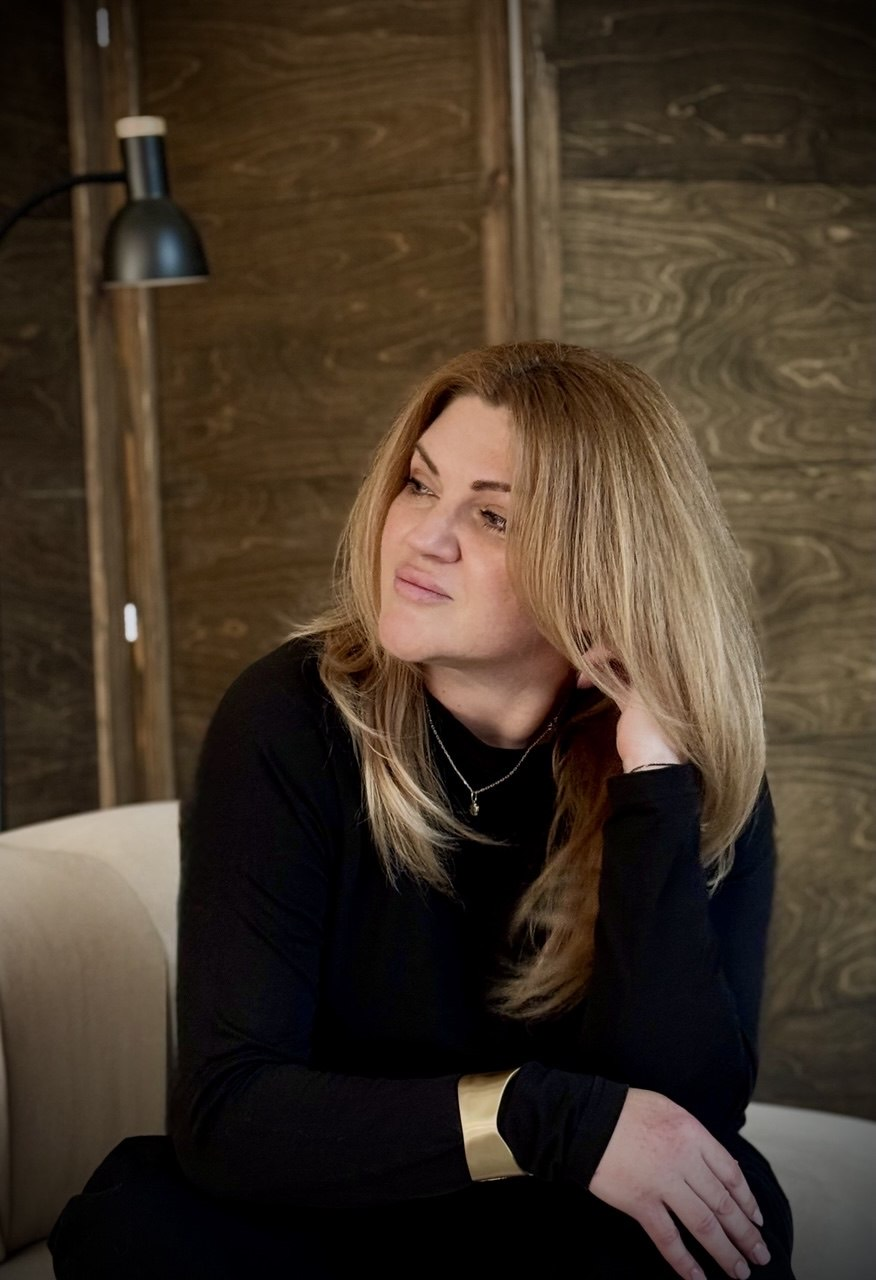
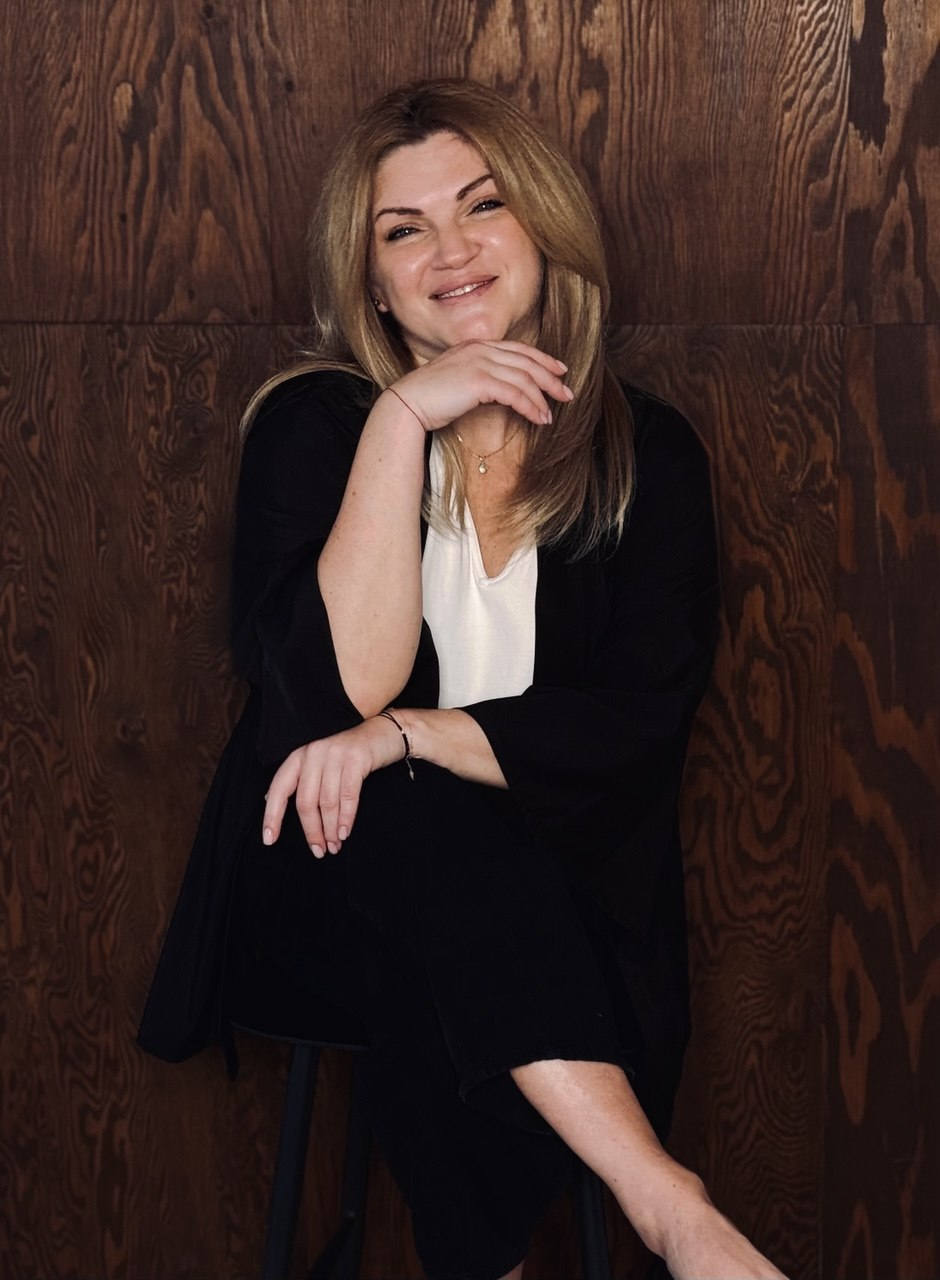
Refine desktop layout and scrolling

diff --git a/assets/site.js b/assets/site.js
@@ -63,32 +63,45 @@ const wideThreadLayout = window.matchMedia("(min-width: 64rem)");
 
 let activeSection = null;
 let pendingFrame = 0;
+let layoutPending = false;
 let threadLength = 0;
+let threadHeights = [];
+let sections = [];
+let pageHeight = 0;
+let lastDashOffset = "";
+const threadSampleSpacing = 24;
 
-function updateThreadProgress() {
+function updateThreadProgress(viewportTop, viewportHeight, atBottom) {
   if (!threadLength) return;
 
-  const viewportBottom = window.scrollY + window.innerHeight;
-  const atBottom = document.documentElement.scrollHeight - viewportBottom < 2;
   let drawn = threadLength;
 
   if (!motionPreference.matches && !atBottom) {
-    const readingPoint = window.scrollY + window.innerHeight * .76;
+    const readingPoint = viewportTop + viewportHeight * .76;
     let low = 0;
-    let high = threadLength;
-    // The thread descends continuously, so its visible tip can follow a height on screen.
-    for (let step = 0; step < 12; step += 1) {
-      const middle = (low + high) / 2;
-      if (threadLine.getPointAtLength(middle).y < readingPoint) {
+    let high = threadHeights.length - 1;
+    // Locate the tip using samples collected when the path was laid out.
+    while (high - low > 1) {
+      const middle = Math.floor((low + high) / 2);
+      if (threadHeights[middle] < readingPoint) {
         low = middle;
       } else {
         high = middle;
       }
     }
-    drawn = low;
+
+    const start = low * threadSampleSpacing;
+    const end = Math.min(high * threadSampleSpacing, threadLength);
+    const height = threadHeights[high] - threadHeights[low];
+    const fraction = Math.max(0, Math.min(1, (readingPoint - threadHeights[low]) / height));
+    drawn = start + fraction * (end - start);
   }
 
-  threadLine.setAttribute("stroke-dashoffset", (threadLength - drawn).toFixed(2));
+  const dashOffset = (threadLength - drawn).toFixed(2);
+  if (dashOffset !== lastDashOffset) {
+    threadLine.setAttribute("stroke-dashoffset", dashOffset);
+    lastDashOffset = dashOffset;
+  }
 }
 
 function setThreadInk(stops, startY, endY) {
@@ -122,14 +135,16 @@ function layoutThread() {
     lanes = [leftEdge + gap * .55, leftEdge + gap * .21];
   }
 
-  const sections = Array.from(paintedSections, section => {
+  pageHeight = document.documentElement.scrollHeight;
+  sections = Array.from(paintedSections, section => {
     const box = section.getBoundingClientRect();
     const style = getComputedStyle(section);
     return {
       top: box.top + scrollY,
       bottom: box.bottom + scrollY,
       paddingTop: parseFloat(style.paddingTop),
-      paddingBottom: parseFloat(style.paddingBottom)
+      paddingBottom: parseFloat(style.paddingBottom),
+      tone: style.getPropertyValue("--section-tone").trim()
     };
   });
 
@@ -167,40 +182,45 @@ function layoutThread() {
   threadGuide.setAttribute("d", route);
   threadLine.setAttribute("d", route);
   threadLength = threadLine.getTotalLength();
+  threadHeights = Array.from(
+    { length: Math.ceil(threadLength / threadSampleSpacing) + 1 },
+    (_, index) => threadLine.getPointAtLength(Math.min(index * threadSampleSpacing, threadLength)).y
+  );
   threadLine.setAttribute("stroke-dasharray", `${threadLength} ${threadLength}`);
   document.body.classList.add("thread-ready");
-  updateThreadProgress();
 }
 
 function updatePaint() {
   pendingFrame = 0;
-  updateThreadProgress();
+  if (layoutPending) {
+    layoutPending = false;
+    layoutThread();
+  }
+
+  const viewportTop = window.scrollY;
+  const viewportHeight = window.innerHeight;
+  const atBottom = pageHeight - viewportTop - viewportHeight < 2;
+  updateThreadProgress(viewportTop, viewportHeight, atBottom);
 
   if (motionPreference.matches) {
-    rootStyle.removeProperty("--current-tone");
-    activeSection = null;
+    if (activeSection) {
+      rootStyle.removeProperty("--current-tone");
+      activeSection = null;
+    }
     return;
   }
 
-  const readingLine = window.innerHeight * 0.55;
-  let visibleSection = paintedSections[0];
-
-  for (const section of paintedSections) {
-    if (section.getBoundingClientRect().top > readingLine) break;
+  const readingLine = viewportTop + viewportHeight * .55;
+  let visibleSection = sections[0];
+  for (const section of sections) {
+    if (!atBottom && section.top > readingLine) break;
     visibleSection = section;
   }
 
-  const distanceFromBottom =
-    document.documentElement.scrollHeight - window.scrollY - window.innerHeight;
-  if (distanceFromBottom < 2) {
-    visibleSection = paintedSections[paintedSections.length - 1];
-  }
-
-  if (activeSection === visibleSection) return;
+  if (!visibleSection || activeSection === visibleSection) return;
 
   activeSection = visibleSection;
-  const tone = getComputedStyle(activeSection).getPropertyValue("--section-tone").trim();
-  rootStyle.setProperty("--current-tone", tone);
+  rootStyle.setProperty("--current-tone", activeSection.tone);
 }
 
 function schedulePaint() {
@@ -209,20 +229,19 @@ function schedulePaint() {
   }
 }
 
+function scheduleLayout() {
+  layoutPending = true;
+  schedulePaint();
+}
+
 window.addEventListener("scroll", schedulePaint, { passive: true });
-window.addEventListener("resize", () => {
-  layoutThread();
-  schedulePaint();
-});
-window.addEventListener("pageshow", () => {
-  layoutThread();
-  schedulePaint();
-});
+window.addEventListener("resize", scheduleLayout);
+window.addEventListener("pageshow", scheduleLayout);
 motionPreference.addEventListener("change", schedulePaint);
 
 layoutThread();
 if (threadLength && "ResizeObserver" in window) {
-  const threadResize = new ResizeObserver(layoutThread);
+  const threadResize = new ResizeObserver(scheduleLayout);
   threadResize.observe(document.body);
   threadResize.observe(document.querySelector(".hero-copy"));
   threadResize.observe(document.querySelector(".contact-intro"));

diff --git a/assets/site.css b/assets/site.css
@@ -14,10 +14,12 @@
   --focus: #70551F;
   --line: #DDD6C7;
   --frame-line: #C6A86B;
+  --selection: rgb(198 168 107 / 30%);
   --surface: rgb(253 252 248 / 92%);
   --handwriting: Caveat, "Segoe Print", cursive;
   --sans: Rubik, "Segoe UI", sans-serif;
   --gutter: clamp(1rem, 4vw, 3.75rem);
+  --page-width: 75rem;
   --section-space: clamp(3.25rem, 7vw, 6rem);
   --acrylic: url("acrylic-wash.webp");
   --ink-corner: url("ink-corner.svg");
@@ -33,6 +35,7 @@
 
 html {
   scroll-behavior: smooth;
+  scroll-padding-block-start: 1rem;
 }
 
 body {
@@ -126,12 +129,13 @@ a {
 }
 
 ::selection {
-  background: var(--gold-light);
+  background-color: var(--selection);
   color: var(--ink);
+  text-shadow: none;
 }
 
 .wrap {
-  width: min(75rem, calc(100% - 2 * var(--gutter)));
+  width: min(var(--page-width), calc(100% - 2 * var(--gutter)));
   margin-inline: auto;
 }
 
@@ -1119,9 +1123,41 @@ a {
   :root {
     --muted: #504F57;
     --surface: rgb(253 252 248 / 96%);
+    --page-width: 88rem;
+    --gutter: clamp(2rem, 4vw, 5rem);
     --section-space: clamp(3.75rem, 5.2vw, 5rem);
     --desktop-columns: minmax(0, .88fr) minmax(0, 1.12fr);
     --desktop-gap: clamp(2.75rem, 5.3vw, 5rem);
+    --scrollbar-thumb: #8F7851;
+    --scrollbar-track: #F1EBE0;
+  }
+
+  html {
+    scrollbar-gutter: stable;
+    scrollbar-color: var(--scrollbar-thumb) var(--scrollbar-track);
+    scrollbar-width: auto;
+  }
+
+  @supports not (scrollbar-color: auto) {
+    html::-webkit-scrollbar-track {
+      background-color: var(--scrollbar-track);
+    }
+
+    html::-webkit-scrollbar-thumb {
+      border: 3px solid var(--scrollbar-track);
+      border-radius: 1rem;
+      background-color: var(--scrollbar-thumb);
+    }
+  }
+
+  body {
+    --page-margin: max(var(--gutter), calc((100% - var(--page-width)) / 2));
+    --margin-rule-inset: calc(var(--page-margin) - clamp(1.25rem, 2vw, 2.75rem));
+    --margin-rule: linear-gradient(rgb(174 132 36 / 16%), rgb(174 132 36 / 16%));
+    background:
+      var(--margin-rule) left var(--margin-rule-inset) top / 1px 100% no-repeat,
+      var(--margin-rule) right var(--margin-rule-inset) top / 1px 100% no-repeat,
+      var(--paper) var(--grain);
   }
 
   .painted {
@@ -1142,6 +1178,16 @@ a {
     --wash-right: max(-13rem, calc(50% - 52rem));
     --wash-bottom: -39%;
     --wash-opacity: .37;
+    padding-block: clamp(1.5rem, 2.4vw, 2.25rem) clamp(2.5rem, 4vw, 3.5rem);
+  }
+
+  .hero-layout {
+    padding-top: clamp(2rem, 3vw, 3rem);
+  }
+
+  .hero h1 {
+    font-size: clamp(3.4rem, 4.4vw, 5.25rem);
+    line-height: 1.06;
   }
 
   .requests, .faq {
@@ -1187,7 +1233,8 @@ a {
   }
 
   .hero-art {
-    margin-inline: 0;
+    width: min(100%, clamp(21rem, 24vw, 25rem));
+    margin-inline: 0 clamp(1.5rem, 4vw, 4.75rem);
     justify-self: end;
   }
 
@@ -1281,5 +1328,16 @@ a {
 
   .topic-list > li > label, .primary-action, .painted::before, .painted::after {
     transition: none;
+  }
+}
+
+@media (forced-colors: active) {
+  html {
+    scrollbar-color: auto;
+  }
+
+  ::selection {
+    background-color: Highlight;
+    color: HighlightText;
   }
 }

diff --git a/index.html b/index.html
@@ -11,7 +11,7 @@
   <link rel="preconnect" href="https://fonts.googleapis.com">
   <link rel="preconnect" href="https://fonts.gstatic.com" crossorigin>
   <link rel="stylesheet" href="https://fonts.googleapis.com/css2?family=Caveat:wght@600..700&family=Rubik:wght@400..700&display=swap">
-  <link rel="stylesheet" href="assets/site.css?v=section-marks">
+  <link rel="stylesheet" href="assets/site.css?v=paper-layout">
 </head>
 <body id="top">
   <a class="skip-link" href="#main">К содержанию</a>
@@ -45,7 +45,7 @@
           </svg>
         </div>
         <figure class="hero-art">
-          <img class="hero-portrait" src="assets/polina-portrait.jpg?v=portraits" alt="Портрет Полины Киселёвой" width="876" height="1280" fetchpriority="high">
+          <img class="hero-portrait" src="assets/polina-portrait.jpg?v=november" alt="Портрет Полины Киселёвой" width="940" height="1280" fetchpriority="high">
           <figcaption>Позволь себе чувствовать! Давай говорить об этом…</figcaption>
         </figure>
       </div>
@@ -290,6 +290,6 @@
     <path id="thread-guide"/>
     <path id="thread-line"/>
   </svg>
-  <script src="assets/site.js?v=thread-stitch" defer></script>
+  <script src="assets/site.js?v=thread-scroll" defer></script>
 </body>
 </html>

diff --git a/README.md b/README.md
@@ -1,0 +1,27 @@
+# Сайт Полины Киселёвой
+
+Статический сайт на GitHub Pages. Репозиторий остаётся на GitHub, а после подключения домена посетители открывают сайт по своему адресу. Отдельный сервер и сборка для публикации не нужны.
+
+[Текущая страница](https://andeki444.github.io/psychologists-business-card-site/)
+
+## Подключение своего домена
+
+1. Зарегистрируй домен. Ниже `example.com` обозначает домен, который ты купишь.
+2. В настройках **личного аккаунта GitHub → Pages** добавь домен и подтверди владение. GitHub покажет имя и значение TXT-записи. Добавь её у регистратора, нажми **Verify** и сохрани эту запись после проверки. [Подтверждение домена в GitHub](https://docs.github.com/en/pages/configuring-a-custom-domain-for-your-github-pages-site/verifying-your-custom-domain-for-github-pages)
+3. В настройках **репозитория → Pages → Custom domain** укажи `example.com` и нажми **Save**. При публикации из ветки GitHub добавит файл `CNAME` в репозиторий. Перед следующими правками подтяни этот коммит. [Настройки Pages этого сайта](https://github.com/andeki444/psychologists-business-card-site/settings/pages)
+4. В DNS-зоне у регистратора добавь записи из таблицы. Убери конфликтующие записи для `@` и `www`, которые ведут на старый хостинг или страницу парковки домена. TXT и записи для почты сохрани. [Записи DNS для GitHub Pages](https://docs.github.com/en/pages/configuring-a-custom-domain-for-your-github-pages-site/managing-a-custom-domain-for-your-github-pages-site#dns-records-for-your-custom-domain)
+
+| Имя | Тип | Значение |
+| --- | --- | --- |
+| `@` | `A` | `185.199.108.153` |
+| `@` | `A` | `185.199.109.153` |
+| `@` | `A` | `185.199.110.153` |
+| `@` | `A` | `185.199.111.153` |
+| `@` | `AAAA` | `2606:50c0:8000::153` |
+| `@` | `AAAA` | `2606:50c0:8001::153` |
+| `@` | `AAAA` | `2606:50c0:8002::153` |
+| `@` | `AAAA` | `2606:50c0:8003::153` |
+| `www` | `CNAME` | `andeki444.github.io` |
+
+5. Когда Pages подтвердит DNS и выдаст сертификат, включи **Enforce HTTPS**. Обновление DNS и выпуск сертификата могут занять до 24 часов. [HTTPS для GitHub Pages](https://docs.github.com/en/pages/getting-started-with-github-pages/securing-your-github-pages-site-with-https)
+6. Проверь `https://example.com/` и переход с `www.example.com` на основной адрес. Открой сайт на телефоне через мобильную сеть, проверь фотографии и переход в Telegram. Используй финальный HTTPS-адрес в QR-коде перед печатью.
